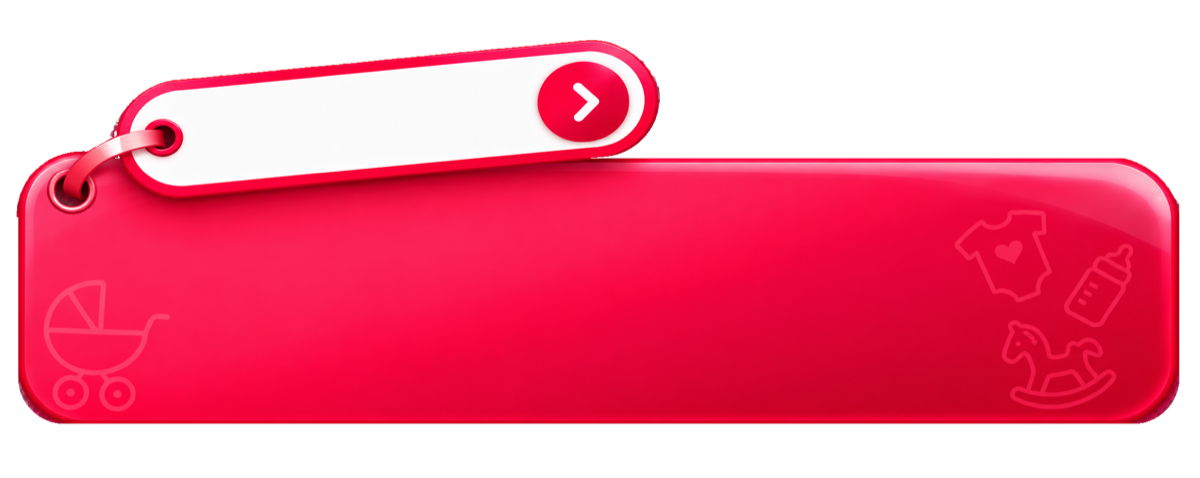
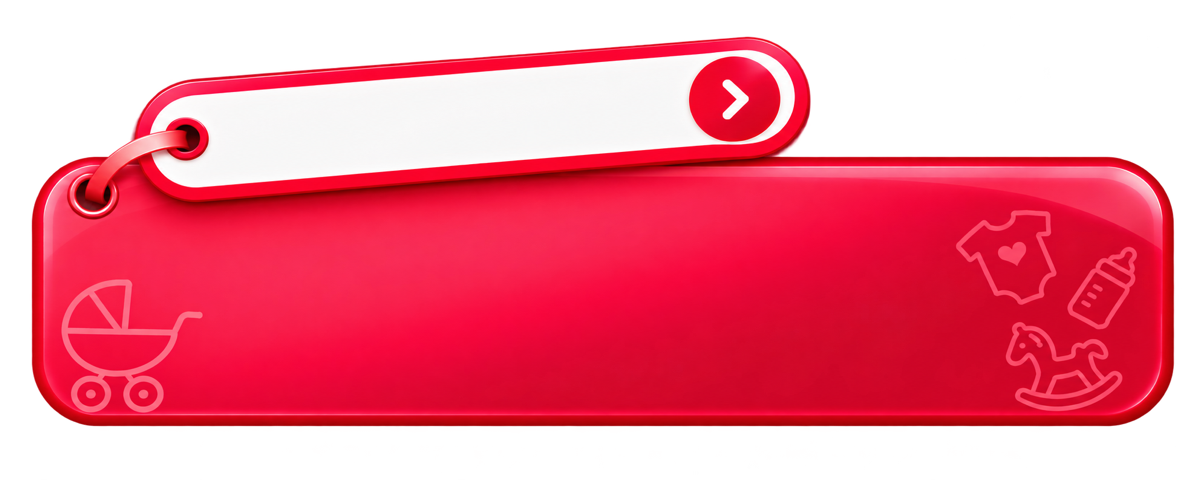
Story: card art with the longer price tag, so long prices fit

Changed region(s): [[0.0, 0.0586, 0.9867, 0.9079]]

diff --git a/src/lib/storyImage.js b/src/lib/storyImage.js
@@ -463,16 +463,15 @@ function drawPriceBar(ctx, { edge, fromRight, y, price, family }) {
 }
 
 // The red card with its price tag tied on, from the designer's art
-// (public/story-card.png, 1200 × 478, transparent). Where things sit in the
+// (public/story-card.png, 1200 × 480, transparent, with its own glow). Where things sit in the
 // art, in its pixels: the card body (x, y, w, h), the centre of the tag's
 // price area (x, y), the tag's tilt in degrees and the room for the price,
-// and the arrow button (x, y, r). The art's own glow had a checkerboard baked
-// in, so it was cut out and the soft shadow is drawn here instead.
+// and the arrow button (x, y, r).
 const CARD_ART = {
   src: "/story-card.png",
-  card: [18, 158, 1161, 266],
-  price: [360, 119, -4.6, 314],
-  button: [583, 103, 42],
+  card: [32, 157, 1141, 267],
+  price: [455, 119, -4.1, 410],
+  button: [733, 99, 44],
 };
 
 // The card art is drawn as is in Kurdish/Arabic (eyelet on the left) and
@@ -482,9 +481,6 @@ function drawCardArt(ctx, { art, CS, cx, cy, cw, ch, rtl, price, title, city, st
   const A = CARD_ART;
   const ox = A.card[0] * CS, oy = A.card[1] * CS, iw = art.width * CS, ih = art.height * CS;
   ctx.save();
-  ctx.shadowColor = "rgba(120, 0, 30, 0.38)";
-  ctx.shadowBlur = 44;
-  ctx.shadowOffsetY = 18;
   if (rtl) ctx.drawImage(art, cx - ox, cy - oy, iw, ih);
   else {
     ctx.translate(cx + cw + ox, cy - oy);
